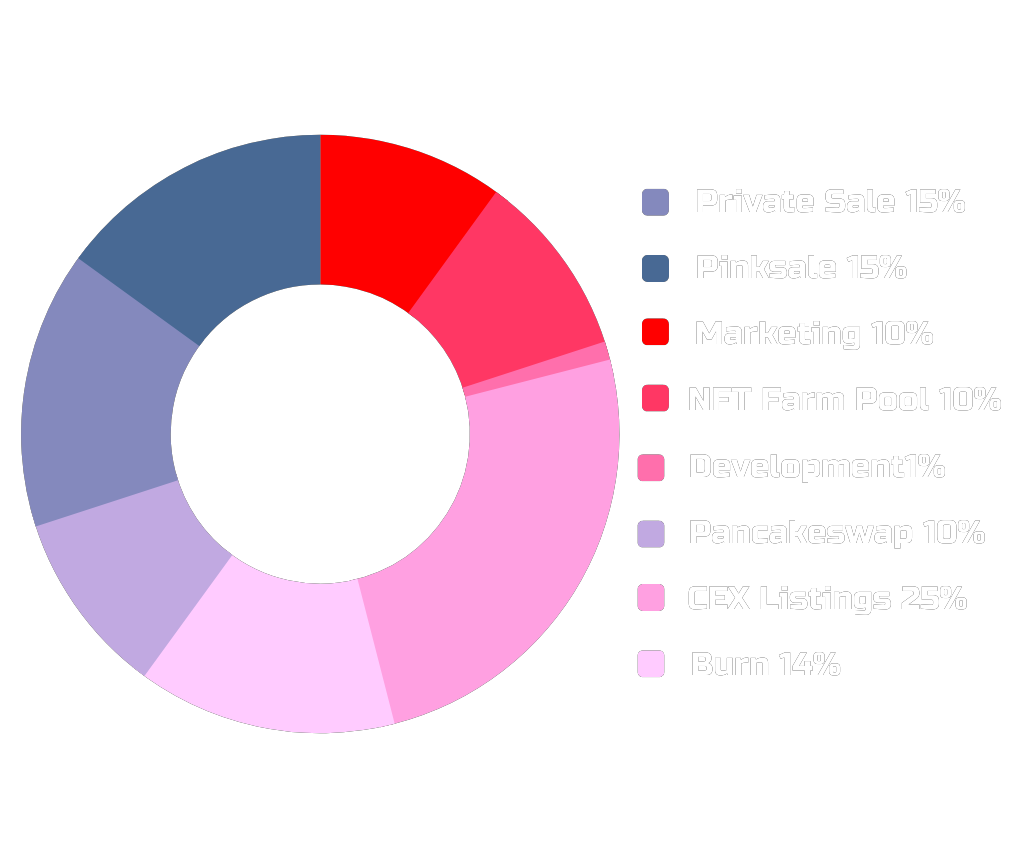
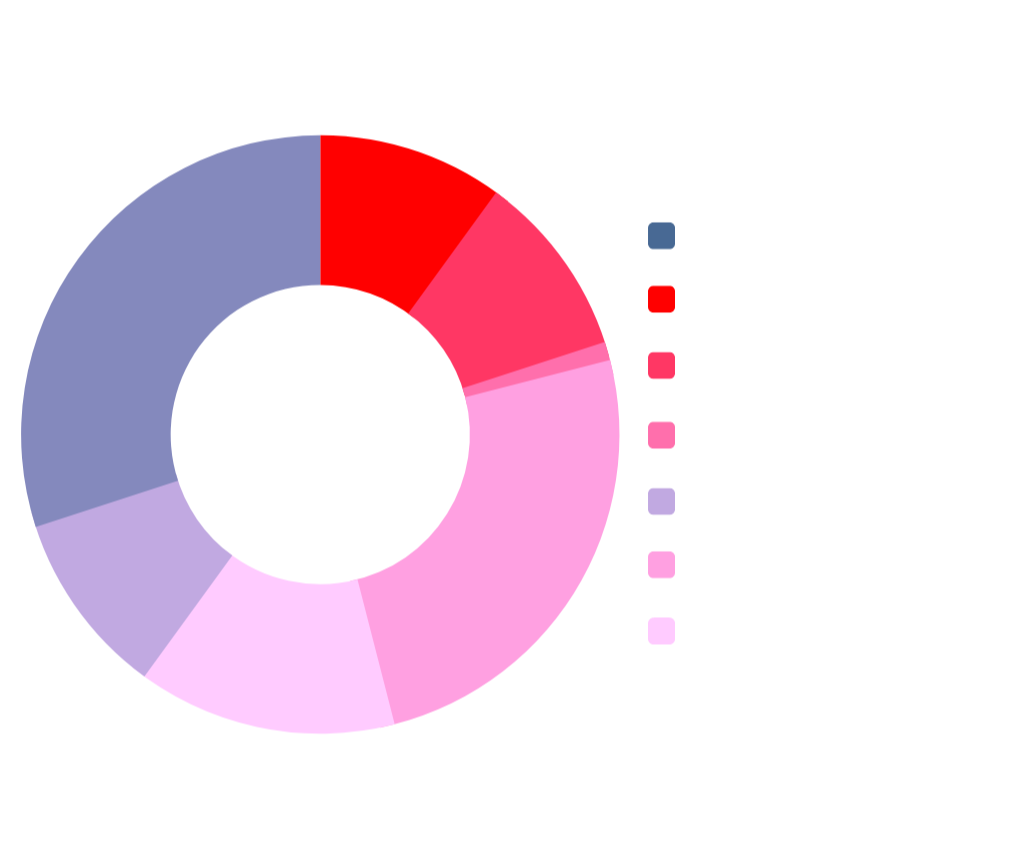
changes

diff --git a/index.html b/index.html
@@ -348,14 +348,14 @@
                                 <br>
                                 <p>
 
-A substantial 25% is allocated for CEX listings, endorsing a varied trading platform for users. Private Sale and Pink Sale each claim 15%, boosting community engagement and initial fundraising. To ensure fluid transactions, 10% is dedicated to PancakeSwap liquidity.</p>
+A substantial 25% is allocated for CEX listings, endorsing a varied trading platform for users. Pink Sale holds 30%, boosting community engagement and initial fundraising. To ensure fluid transactions, 10% is dedicated to PancakeSwap liquidity.</p>
                                 <br>
                                 <p>
 
 We've designated 14% for regular burns to maintain token value and control inflation. Overall, DogeBlack AI's tokenomics signifies our dedication to a thriving, balanced, and profitable ecosystem.</p>    
                             <br>
                             <p>
-                              Our token will have a fee of 9% for purchases and 10% for sales.</p>
+                              Our token will have a fee of 9% for purchases and 10% for sales, Please note that unsold tokens will be burned.</p>
                             </div>
                         </div>
                     </div>

diff --git a/announcement.html b/announcement.html
@@ -154,11 +154,13 @@
                                 <h3 class="uppercase">DogeBlack AI </h3>
                             </div>
                             <div style="margin-top: 20px; text-align: justify;">
-                                <p>Announces that private sale buyers will earn an NFT according to the model below:</p>
+                                <p>Announces that the first 100 buyers at pinksale's public sale will earn an NFT according to the model below:</p>
                                 <br>
                                 <li class="model"> 0.30 bnb or $100 common NFT </li>
                                 <li class="model"> 0.50 bnb or $160 NFT rare  </li>
                                 <li class="model"> 1 bnb or $310 NFT epic</li>
+                                <br>
+                                <p>Note: There will only be 40 common NFTs, 30 rares and 30 epics and will be delivered after the public sale</p>
                                 <br>
                                 <p>The first 2,000 people who enter twitter, tag 3 friends, enter telegram will receive an airdrop of modes that will be paid after the listing. <br>
                                 <a href="https://forms.gle/poL4JMnqEzifai8XA">Submit your entries here</a></p>
